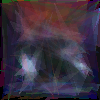
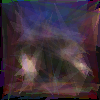
Generating images

diff --git a/simulation.py b/simulation.py
@@ -41,11 +41,11 @@ def get_n_best_images(DNAs, n, image):
 
 
 def run(iterations):
-    im = Image.open('Patterns/kopernik.jpg')
+    im = Image.open('Patterns/MonaLisa.jpg')
     im = im.resize(IMG_SHAPE)
     source_image = np.array(im.convert('RGB'), dtype=np.uint8)
 
-    images_DNA = [DNA(250) for _ in range(START_NUMBER)]
+    images_DNA = [DNA(300) for _ in range(START_NUMBER)]
     for i in range(iterations):
         mutated_images = mutate_images(images_DNA, GENERATED_PER_IMAGE)
         images_DNA = get_n_best_images(mutated_images, START_NUMBER, source_image)
@@ -53,7 +53,7 @@ def run(iterations):
             print(i)
             print(images_DNA[0].count_loss(source_image))
             plt.imshow(images_DNA[0].generated_image(*IMG_SHAPE).astype(int))
-            images_DNA[0].save("simulation_"+str(i))
+            images_DNA[0].save("monalisa_"+str(i))
             plt.show()
 
 
@@ -62,7 +62,7 @@ def run(iterations):
     plt.imshow(final_img)
     plt.show()
     cv2.imshow("mutated", final_img)
-    cv2.imwrite("kopernik.png", final_img)
+    cv2.imwrite("monalisa.png", final_img)
 
     while True:
         k = cv2.waitKey(1)
@@ -73,6 +73,6 @@ def run(iterations):
 
 
 if __name__ == '__main__':
-    run(20000)
+    run(30000)
 
 

diff --git a/imageGenerating.py b/imageGenerating.py
@@ -1,0 +1,21 @@
+from DNA import DNA
+from PIL import Image
+import numpy as np
+
+
+def visualize_image(location, height, width):
+    """
+    Loads DNA and generate image of set shape
+    :param location: location of dna
+    :param height: height of the generated image
+    :param width: width of the generated image
+    :returns: generated from loaded DNA PIL image
+    """
+    dna = DNA(0).load(location)
+    image_array = dna.generated_image(height, width)
+    return Image.fromarray(image_array.astype(np.uint8))
+
+
+if __name__ == '__main__':
+    image = visualize_image("monalisa_29900", 400, 200)
+    image.save("result.png")

diff --git a/chage_from_BRG2RGB.py b/chage_from_BRG2RGB.py
@@ -1,0 +1,15 @@
+import cv2
+
+
+def bgr2rgb(filename):
+    """
+    Converts an image from disc from brg format to rgb.
+    :param filename: file location
+    """
+    loaded = cv2.imread(filename)
+    changed = cv2.cvtColor(loaded, cv2.COLOR_RGB2BGR)
+    cv2.imwrite(filename, changed)
+
+
+if __name__ == '__main__':
+    bgr2rgb("kopernik10k.png")
